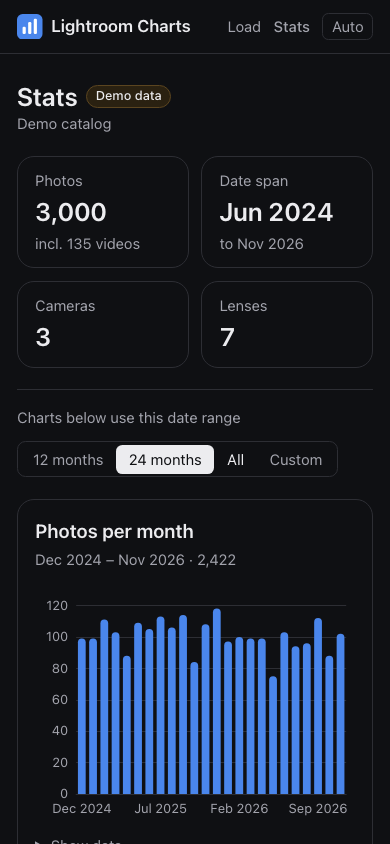
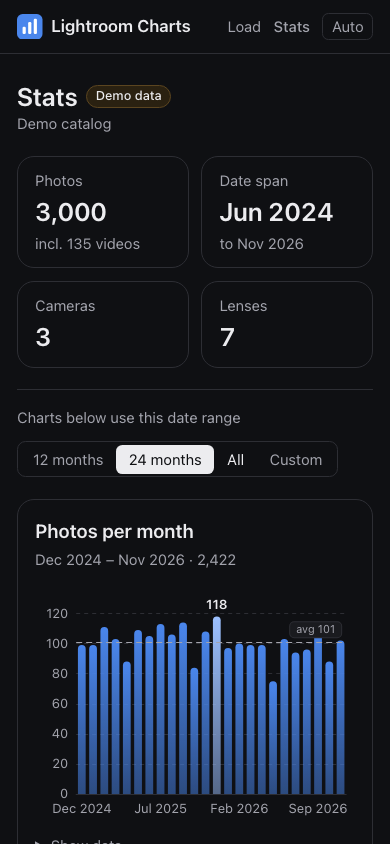
feat: chart polish — gradients, peak highlight, average line, animation (Phase 5) (#21)

Changed region(s): [[0.1231, 0.7085, 0.8923, 0.955], [0.4615, 0.7085, 0.4923, 0.7393], [0.4, 0.7085, 0.4308, 0.7393]]

diff --git a/src/charts/options.ts b/src/charts/options.ts
@@ -1,9 +1,9 @@
 import type { EChartsCoreOption } from 'echarts/core';
 import { CHART_TEXT_WIDE, type ThemeColors } from './theme.ts';
-
-const size = (c: ThemeColors) => c.text ?? CHART_TEXT_WIDE;
 import type { MonthCount } from '@/catalog/transforms.ts';
 import type { NameCount } from '@/catalog/queries.ts';
+
+const size = (c: ThemeColors) => c.text ?? CHART_TEXT_WIDE;
 
 const MONTHS = ['Jan', 'Feb', 'Mar', 'Apr', 'May', 'Jun', 'Jul', 'Aug', 'Sep', 'Oct', 'Nov', 'Dec'];
 
@@ -12,17 +12,104 @@ export function monthLabel(m: string): string {
   return `${MONTHS[Number(m.slice(5, 7)) - 1]} ${m.slice(0, 4)}`;
 }
 
-function base(c: ThemeColors) {
+/** '#1d5fd1' + 0.4 → 'rgba(29, 95, 209, 0.4)'. Non-hex colors pass through unchanged. */
+export function withAlpha(color: string, a: number): string {
+  const m = /^#([0-9a-f]{3}|[0-9a-f]{6})$/i.exec(color.trim());
+  if (!m) return color;
+  const h = m[1].length === 3 ? [...m[1]].map((x) => x + x).join('') : m[1];
+  const [r, g, b] = [0, 2, 4].map((i) => parseInt(h.slice(i, i + 2), 16));
+  return `rgba(${r}, ${g}, ${b}, ${a})`;
+}
+
+/** Index of the largest value, or -1 when there's nothing worth singling out. */
+export function peakIndex(values: number[]): number {
+  if (values.length < 2) return -1;
+  let best = -1;
+  values.forEach((v, i) => {
+    if (v > 0 && (best < 0 || v > values[best])) best = i;
+  });
+  return best;
+}
+
+/**
+ * One-hue gradient: solid at the value end, fading toward the baseline.
+ * `across` runs left→right (horizontal bars); otherwise bottom→top.
+ */
+function fade(color: string, across: boolean) {
+  const solid = { offset: 1, color };
+  const faint = { offset: 0, color: withAlpha(color, 0.5) };
+  return across
+    ? { type: 'linear', x: 0, y: 0, x2: 1, y2: 0, colorStops: [faint, solid] }
+    : { type: 'linear', x: 0, y: 1, x2: 0, y2: 0, colorStops: [faint, solid] };
+}
+
+const escapeHtml = (t: string) => t.replace(/[&<>"']/g, (ch) => `&#${ch.charCodeAt(0)};`);
+
+/** Bar styling shared by every chart: gradient fill, highlighted peak, hover glow. */
+function barStyle(values: number[], c: ThemeColors, across: boolean) {
+  const peak = peakIndex(values);
+  const normal = fade(c.chart, across);
+  const top = fade(c.chartPeak || c.chart, across);
+  const radius = across ? [0, 5, 5, 0] : [5, 5, 0, 0];
   return {
-    animationDuration: 300,
+    peak,
+    itemStyle: {
+      borderRadius: radius,
+      color: (p: { dataIndex: number }) => (p.dataIndex === peak ? top : normal),
+    },
+    emphasis: {
+      focus: 'none',
+      itemStyle: {
+        color: top,
+        shadowBlur: 14,
+        shadowColor: withAlpha(c.chart, 0.45),
+      },
+    },
+  };
+}
+
+/** Value label on the peak bar only (selective labels, not one per bar). */
+function peakLabel(peak: number, c: ThemeColors) {
+  return {
+    show: peak >= 0,
+    position: 'top',
+    color: c.fg,
+    fontWeight: 600,
+    fontSize: size(c).base,
+    formatter: (p: { dataIndex: number; value: number }) =>
+      p.dataIndex === peak ? p.value.toLocaleString() : '',
+  };
+}
+
+function base(c: ThemeColors) {
+  const motion = !c.reducedMotion;
+  return {
+    // Bars grow in one after another; filter changes glide to the new values.
+    animation: motion,
+    animationDuration: 700,
+    animationEasing: 'cubicOut' as const,
+    animationDelay: (i: number) => Math.min(i * 18, 450),
+    animationDurationUpdate: 450,
+    animationEasingUpdate: 'cubicInOut' as const,
     // Chart text is in px (the root font size doesn't reach the canvas).
     textStyle: { color: c.muted, fontFamily: c.font ?? 'sans-serif', fontSize: size(c).base },
     tooltip: {
       trigger: 'axis',
-      axisPointer: { type: 'shadow' },
+      axisPointer: { type: 'shadow', shadowStyle: { color: withAlpha(c.chart, 0.1) } },
       backgroundColor: c.surface,
       borderColor: c.line,
+      padding: [8, 12],
+      extraCssText: 'border-radius: 10px; box-shadow: 0 8px 24px rgba(0, 0, 0, 0.18);',
       textStyle: { color: c.fg, fontFamily: c.font ?? 'sans-serif', fontSize: size(c).base },
+      formatter: (params: { name: string; value: number }[]) => {
+        const p = params[0];
+        if (!p) return '';
+        return (
+          `<div style="color:${c.muted}">${escapeHtml(p.name)}</div>` +
+          `<div><b style="font-size:1.2em">${p.value.toLocaleString()}</b> ` +
+          `photo${p.value === 1 ? '' : 's'}</div>`
+        );
+      },
     },
   };
 }
@@ -31,14 +118,16 @@ const valueAxis = (c: ThemeColors) => ({
   type: 'value',
   minInterval: 1,
   axisLabel: { color: c.muted, fontSize: size(c).base },
-  splitLine: { lineStyle: { color: c.line } },
+  splitLine: { lineStyle: { color: c.line, type: [4, 4] } },
 });
 
 /** Photos per month, oldest left. */
 export function timelineOption(rows: MonthCount[], c: ThemeColors): EChartsCoreOption {
+  const values = rows.map((r) => r.count);
+  const style = barStyle(values, c, false);
   return {
     ...base(c),
-    grid: { left: 8, right: 8, top: 16, bottom: 8, containLabel: true },
+    grid: { left: 8, right: 8, top: 24, bottom: 8, containLabel: true },
     xAxis: {
       type: 'category',
       data: rows.map((r) => monthLabel(r.month)),
@@ -51,9 +140,32 @@ export function timelineOption(rows: MonthCount[], c: ThemeColors): EChartsCoreO
       {
         type: 'bar',
         name: 'Photos',
-        data: rows.map((r) => r.count),
-        itemStyle: { color: c.chart, borderRadius: [4, 4, 0, 0] },
+        data: values,
+        ...style,
+        label: peakLabel(style.peak, c),
         barMaxWidth: 24,
+        // Dashed average across the range: is this month busy or quiet?
+        markLine:
+          values.length > 1
+            ? {
+                silent: true,
+                symbol: 'none',
+                data: [{ type: 'average', name: 'Average' }],
+                lineStyle: { color: c.muted, type: [6, 4], width: 1 },
+                label: {
+                  position: 'insideEndTop',
+                  color: c.muted,
+                  // A pill keeps the label readable where it crosses bars.
+                  backgroundColor: c.surface,
+                  borderColor: c.line,
+                  borderWidth: 1,
+                  borderRadius: 4,
+                  padding: [2, 6],
+                  fontSize: size(c).dense,
+                  formatter: (p: { value: number }) => `avg ${Math.round(p.value)}`,
+                },
+              }
+            : undefined,
       },
     ],
   };
@@ -70,6 +182,8 @@ export function rankingOption(
   labelWidth: number
 ): EChartsCoreOption {
   const top = [...rows].reverse();
+  const values = top.map((r) => r.count);
+  const style = barStyle(values, c, true);
   return {
     ...base(c),
     grid: { left: 8, right: 40, top: 4, bottom: 4, containLabel: true },
@@ -87,10 +201,24 @@ export function rankingOption(
       {
         type: 'bar',
         name: 'Photos',
-        data: top.map((r) => r.count),
-        itemStyle: { color: c.chart, borderRadius: [0, 4, 4, 0] },
+        data: values,
+        ...style,
         barMaxWidth: 18,
-        label: { show: true, position: 'right', color: c.muted, fontSize: size(c).base },
+        // A faint track behind each bar shows how far it is from the leader.
+        showBackground: true,
+        backgroundStyle: { color: withAlpha(c.line, 0.5), borderRadius: [0, 5, 5, 0] },
+        label: {
+          show: true,
+          position: 'right',
+          fontSize: size(c).base,
+          color: c.muted,
+          // The leader's count is bold and in full ink.
+          formatter: (p: { dataIndex: number; value: number }) =>
+            p.dataIndex === style.peak
+              ? `{peak|${p.value.toLocaleString()}}`
+              : p.value.toLocaleString(),
+          rich: { peak: { color: c.fg, fontWeight: 600, fontSize: size(c).base } },
+        },
       },
     ],
   };
@@ -102,9 +230,11 @@ export function columnOption(
   c: ThemeColors,
   { everyLabel = true }: { everyLabel?: boolean } = {}
 ): EChartsCoreOption {
+  const values = bins.map((b) => b.count);
+  const style = barStyle(values, c, false);
   return {
     ...base(c),
-    grid: { left: 8, right: 8, top: 16, bottom: 8, containLabel: true },
+    grid: { left: 8, right: 8, top: 24, bottom: 8, containLabel: true },
     xAxis: {
       type: 'category',
       data: bins.map((b) => b.label),
@@ -121,8 +251,9 @@ export function columnOption(
       {
         type: 'bar',
         name: 'Photos',
-        data: bins.map((b) => b.count),
-        itemStyle: { color: c.chart, borderRadius: [4, 4, 0, 0] },
+        data: values,
+        ...style,
+        label: peakLabel(style.peak, c),
         barMaxWidth: 24,
       },
     ],

diff --git a/src/charts/options.test.ts b/src/charts/options.test.ts
@@ -5,6 +5,8 @@ import {
   rankingHeight,
   rankingOption,
   timelineOption,
+  peakIndex,
+  withAlpha,
 } from './options.ts';
 
 const colors = {
@@ -107,5 +109,51 @@ describe('chart font family', () => {
     }) as unknown as T;
     expect(withFont.textStyle.fontFamily).toBe('system-ui, sans-serif');
     expect(withFont.textStyle.fontFamily).not.toMatch(/inherit|initial|unset/);
+  });
+});
+
+describe('chart polish helpers', () => {
+  it('adds alpha to hex colors and passes others through', () => {
+    expect(withAlpha('#1d5fd1', 0.5)).toBe('rgba(29, 95, 209, 0.5)');
+    expect(withAlpha('#fff', 1)).toBe('rgba(255, 255, 255, 1)');
+    expect(withAlpha('red', 0.5)).toBe('red');
+  });
+
+  it('finds the peak bar, ignoring single bars and all-zero data', () => {
+    expect(peakIndex([1, 5, 3])).toBe(1);
+    expect(peakIndex([4, 4])).toBe(0);
+    expect(peakIndex([7])).toBe(-1);
+    expect(peakIndex([0, 0])).toBe(-1);
+  });
+
+  it('timeline gets an average line; a single month does not', () => {
+    type M = { series: { markLine?: unknown }[] };
+    const two = timelineOption(
+      [
+        { month: '2024-01', count: 1 },
+        { month: '2024-02', count: 3 },
+      ],
+      colors
+    ) as unknown as M;
+    expect(two.series[0].markLine).toBeDefined();
+    const one = timelineOption([{ month: '2024-01', count: 1 }], colors) as unknown as M;
+    expect(one.series[0].markLine).toBeUndefined();
+  });
+
+  it('turns animation off for reduced motion', () => {
+    type A = { animation: boolean };
+    const bins = [{ label: 'a', count: 1 }];
+    expect((columnOption(bins, colors) as unknown as A).animation).toBe(true);
+    expect((columnOption(bins, { ...colors, reducedMotion: true }) as unknown as A).animation).toBe(
+      false
+    );
+  });
+
+  it('escapes names in the tooltip', () => {
+    type T = { tooltip: { formatter: (p: { name: string; value: number }[]) => string } };
+    const o = columnOption([{ label: 'a', count: 1 }], colors) as unknown as T;
+    const html = o.tooltip.formatter([{ name: '<img src=x>', value: 2 }]);
+    expect(html).not.toContain('<img');
+    expect(html).toContain('2</b> photos');
   });
 });

diff --git a/src/charts/theme.ts b/src/charts/theme.ts
@@ -27,6 +27,10 @@ export interface ThemeColors {
   accent: string;
   /** Mark color for bars (validated per theme). */
   chart: string;
+  /** Highlight for the largest bar; falls back to `chart`. */
+  chartPeak?: string;
+  /** Skip entrance animations (prefers-reduced-motion). */
+  reducedMotion?: boolean;
   surface: string;
 }
 
@@ -40,6 +44,8 @@ function readColors(): ThemeColors {
     line: v('--line'),
     accent: v('--accent'),
     chart: v('--chart'),
+    chartPeak: v('--chart-peak'),
+    reducedMotion: window.matchMedia('(prefers-reduced-motion: reduce)').matches,
     surface: v('--surface'),
   };
 }
@@ -51,10 +57,13 @@ export function useThemeColors(): ThemeColors {
     const update = () => setColors(readColors());
     const mq = window.matchMedia('(prefers-color-scheme: dark)');
     mq.addEventListener('change', update);
+    const motion = window.matchMedia('(prefers-reduced-motion: reduce)');
+    motion.addEventListener('change', update);
     const mo = new MutationObserver(update);
     mo.observe(document.documentElement, { attributes: true, attributeFilter: ['data-theme'] });
     return () => {
       mq.removeEventListener('change', update);
+      motion.removeEventListener('change', update);
       mo.disconnect();
     };
   }, []);

diff --git a/src/charts/EChart.tsx b/src/charts/EChart.tsx
@@ -1,12 +1,12 @@
 import { useEffect, useRef } from 'react';
 import * as echarts from 'echarts/core';
 import { BarChart } from 'echarts/charts';
-import { GridComponent, TooltipComponent } from 'echarts/components';
+import { GridComponent, MarkLineComponent, TooltipComponent } from 'echarts/components';
 import { CanvasRenderer } from 'echarts/renderers';
 import type { EChartsCoreOption } from 'echarts/core';
 
-// Only what the app draws: bars, axes, tooltips. Keeps the bundle small.
-echarts.use([BarChart, GridComponent, TooltipComponent, CanvasRenderer]);
+// Only what the app draws: bars, axes, tooltips, average lines. Keeps the bundle small.
+echarts.use([BarChart, GridComponent, MarkLineComponent, TooltipComponent, CanvasRenderer]);
 
 interface Props {
   option: EChartsCoreOption;

diff --git a/src/styles.css b/src/styles.css
@@ -20,6 +20,8 @@
   --accent: #1d5fd1;
   /* Chart marks. Validated (dataviz) for lightness band + 3:1 vs surface. */
   --chart: #1d5fd1;
+  /* Peak bar: a deeper step of the same hue, so the highlight reads as "most". */
+  --chart-peak: #0e3f99;
   --info-bg: #eef4ff;
   --info-line: #c6d8fb;
   --warn-bg: #fff6e5;
@@ -51,6 +53,7 @@
     --line-strong: #565862;
     --accent: #6ea2ff;
     --chart: #4a86ec;
+    --chart-peak: #9cc0ff;
     --info-bg: #142036;
     --info-line: #27416d;
     --warn-bg: #2a2111;
@@ -71,6 +74,7 @@
   --line-strong: #565862;
   --accent: #6ea2ff;
   --chart: #4a86ec;
+  --chart-peak: #9cc0ff;
   --info-bg: #142036;
   --info-line: #27416d;
   --warn-bg: #2a2111;

diff --git a/e2e/screenshots.spec.ts b/e2e/screenshots.spec.ts
@@ -11,7 +11,7 @@ async function openDemo(page: Page) {
   await page.goto('./#/load');
   await page.getByRole('button', { name: 'Try with sample data' }).click();
   await expect(page.locator('canvas').first()).toBeVisible();
-  await page.waitForTimeout(600); // let bar animations finish
+  await page.waitForTimeout(1400); // let staggered bar animations finish
 }
 
 for (const scheme of ['light', 'dark'] as const) {
